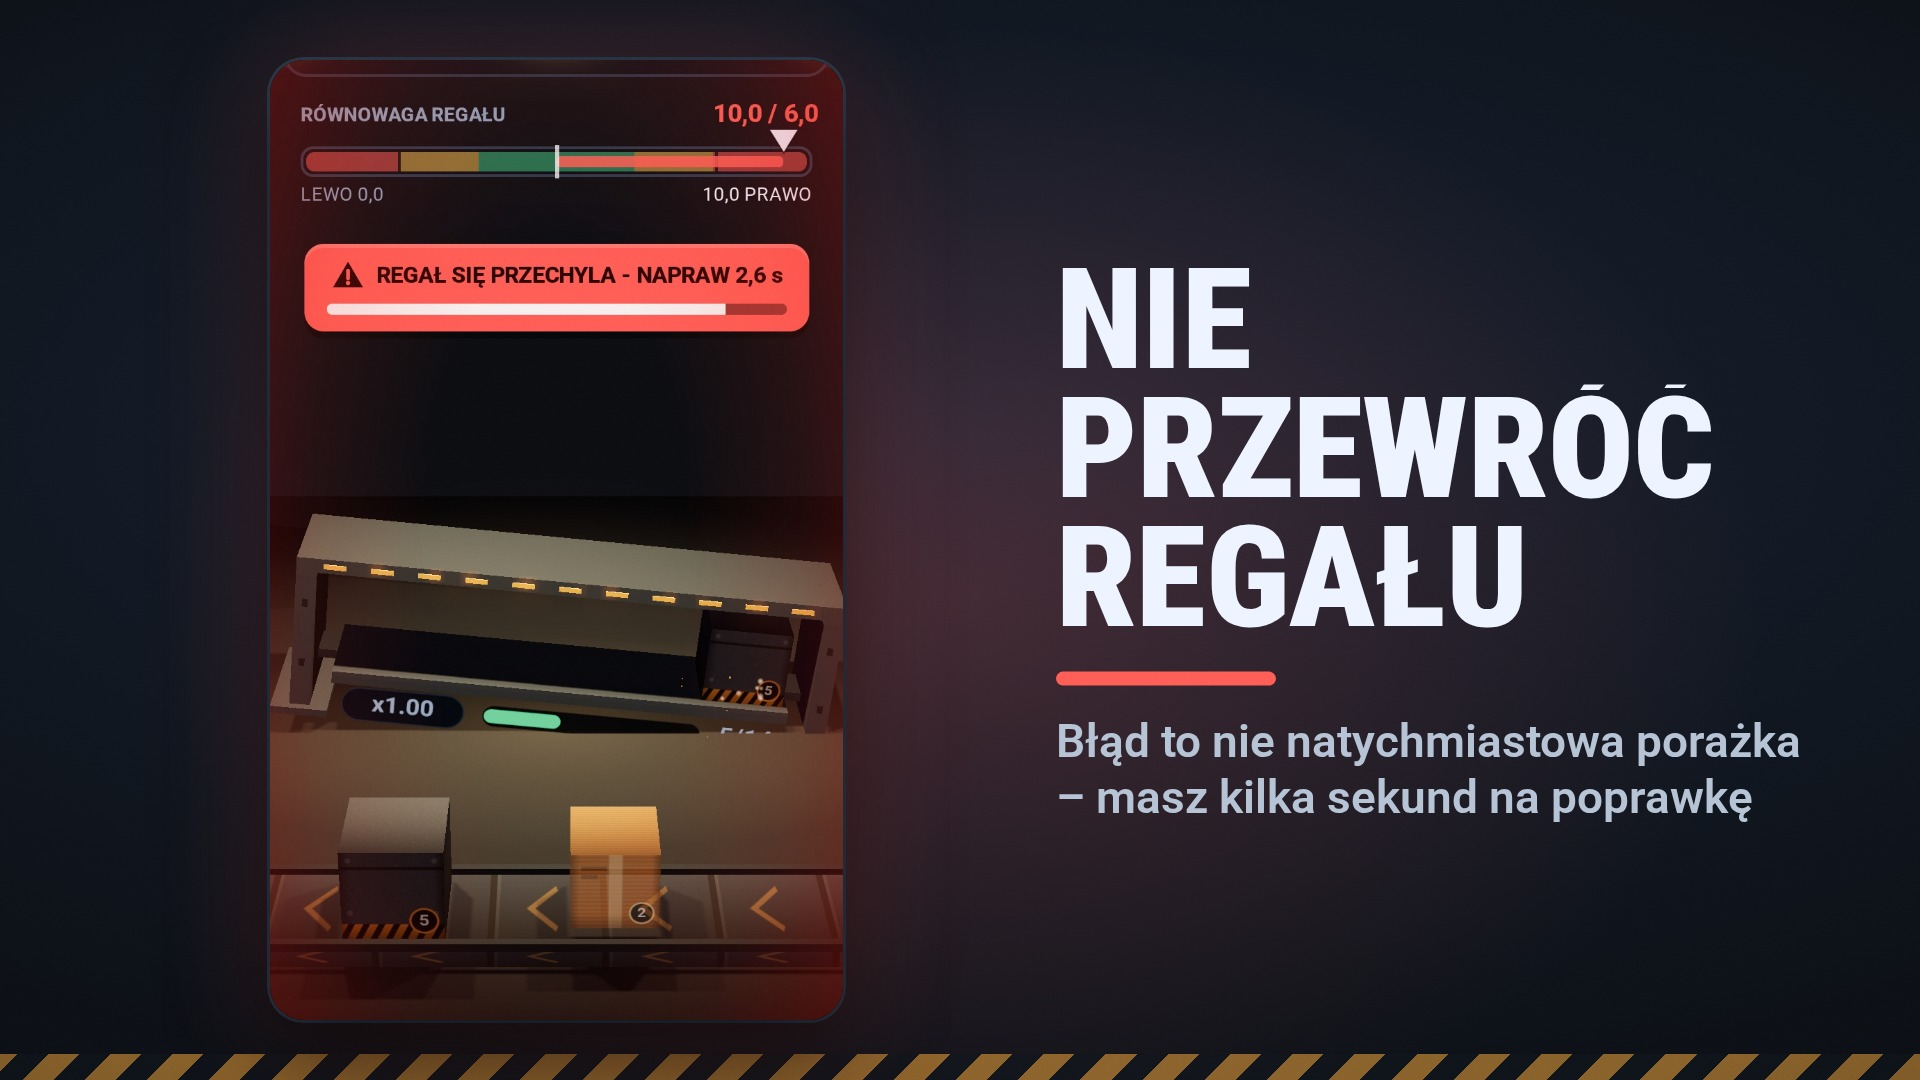
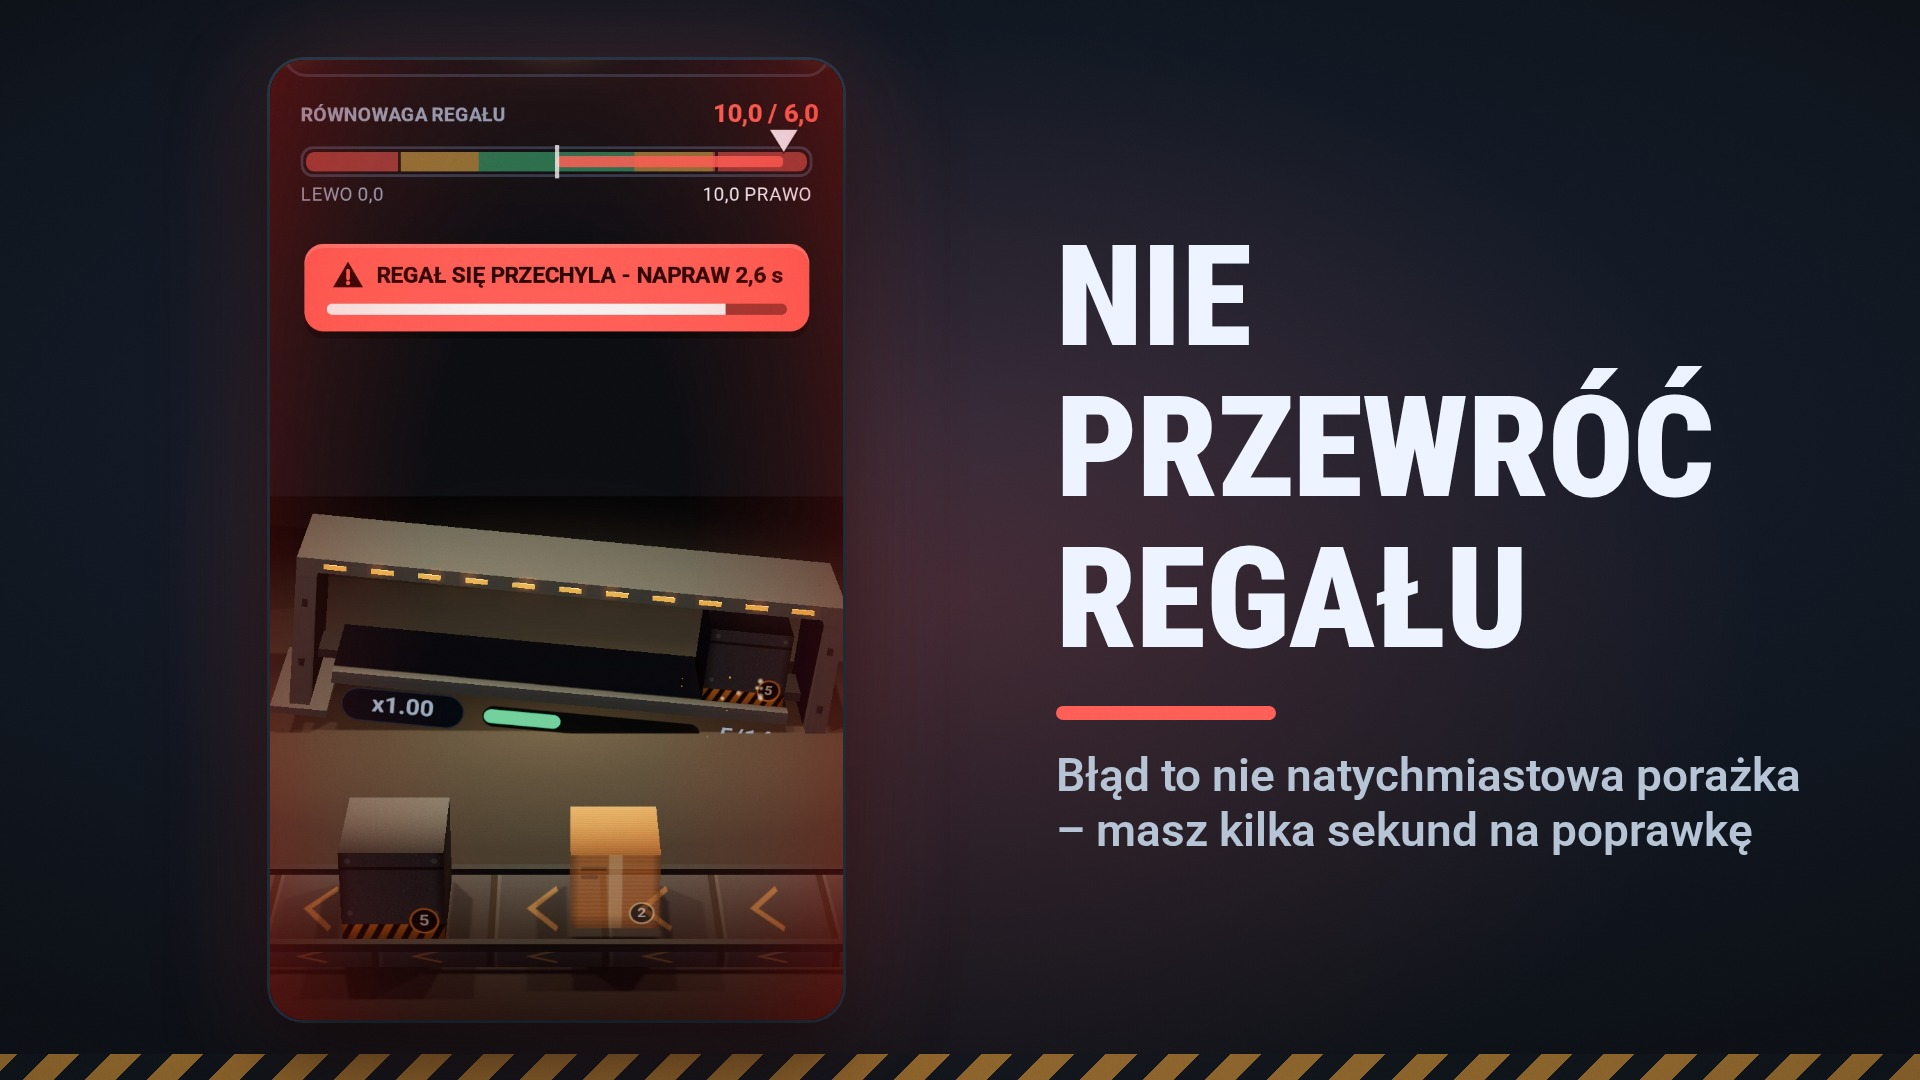
fix: store headlines no longer clip accents above capitals
Each headline word sits in an overflow-hidden mask for the reveal animation,
and the mask ended at the line box, which cut the marks above capitals
(Ä, É, İ, Ó, Ã, Й, Ё). The mask now has room above, and headlines with such
capitals get a looser line height so the marks clear the line above. English
headlines have none and render byte-identical. Re-rendered the affected
screenshots for de, es, fr, pl, pt-BR and tr.

Claude-Session: https://claude.ai/code/session_015tmBfJbFwHq97cecyLXmqp

Changed region(s): [[0.5312, 0.4889, 0.9375, 0.7944], [0.5312, 0.2139, 0.6562, 0.3667], [0.8125, 0.3361, 0.9062, 0.3667]]

diff --git a/marketing/compose/page.ts b/marketing/compose/page.ts
@@ -91,12 +91,15 @@ function makeTitle(parent: HTMLElement, text: string, sub: string | undefined, o
     }
     lines.append(document.createTextNode(' '));
   }
+  // Capitals with marks (Ä, É, İ, Ş, Й, Ё...) need more room between the lines than the tight .92.
+  const lineHeight = /\p{M}/u.test(text.toLocaleUpperCase().normalize('NFD')) ? 1.08 : 0.92;
+  lines.style.lineHeight = String(lineHeight);
   // Largest size up to opts.size that keeps every word on the line and at most 3 lines.
   let size = opts.size;
   for (; size > 40; size -= 4) {
     lines.style.fontSize = `${size}px`;
     const tooWide = [...lines.querySelectorAll<HTMLElement>('.mask')].some((m) => m.offsetWidth > opts.width);
-    const rows = Math.round(lines.offsetHeight / (size * 0.92));
+    const rows = Math.round(lines.offsetHeight / (size * lineHeight));
     if (!tooWide && rows <= 3) break;
   }
   lines.style.fontSize = `${size}px`;

diff --git a/marketing/compose/index.html b/marketing/compose/index.html
@@ -46,6 +46,8 @@
       .textbox.top { top: 70px; left: 0; right: 0; transform: none; display: flex; justify-content: center; }
       .title .lines { font-weight: 900; font-stretch: 78%; line-height: .92; text-transform: uppercase; letter-spacing: -.005em; }
       .mask { display: inline-block; overflow: hidden; vertical-align: top; white-space: nowrap; padding: 0 .03em .07em; margin: 0 -.03em -.07em; }
+      /* Room above the cap height for accents (Ä, É, İ, Ó, Й, Ё); the negative margin keeps the layout unchanged. */
+      .title .lines .mask { padding-top: .3em; margin-top: -.3em; }
       .l { display: inline-block; white-space: pre; }
       .title .bar { height: 14px; width: 220px; margin-top: 30px; transform-origin: left center; border-radius: 7px; }
       .title .sub { margin-top: 28px; font-size: 46px; font-weight: 600; color: #b6c4d6; line-height: 1.2; }
